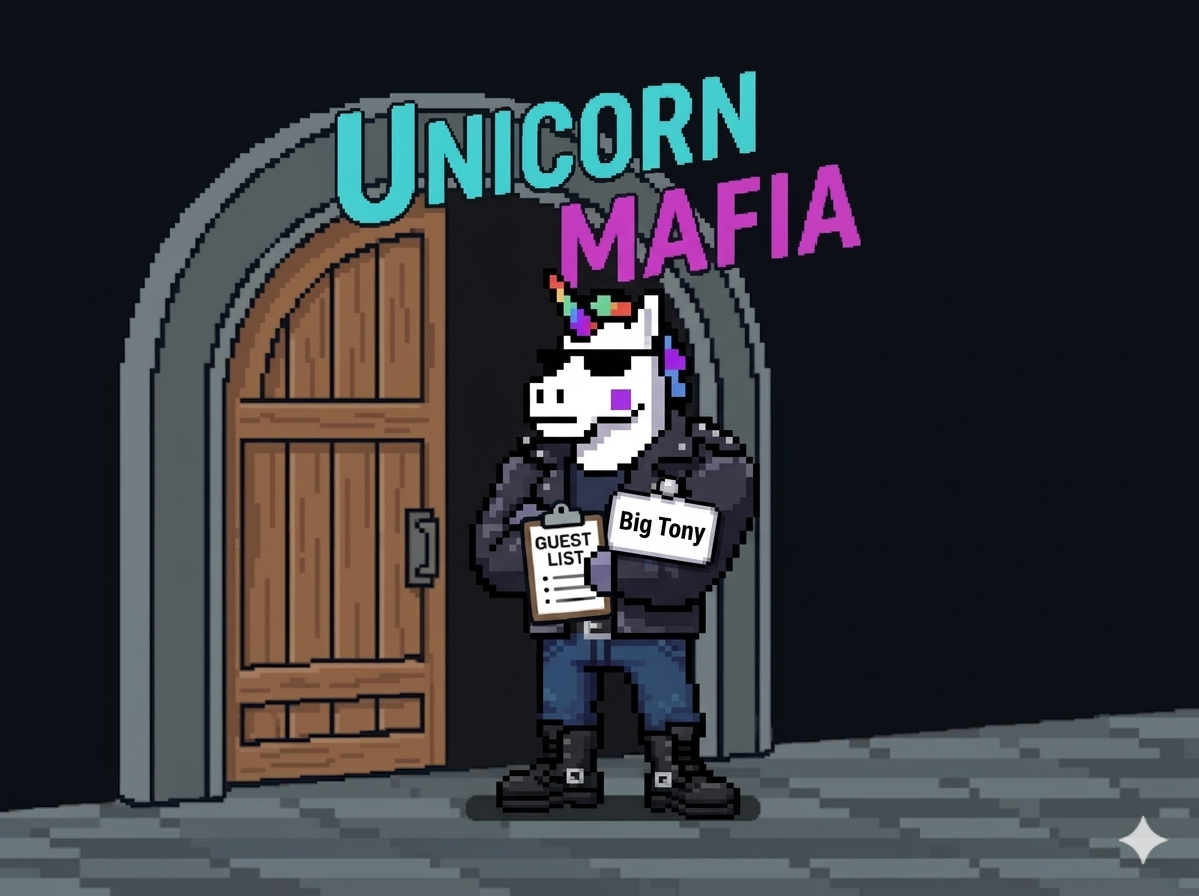
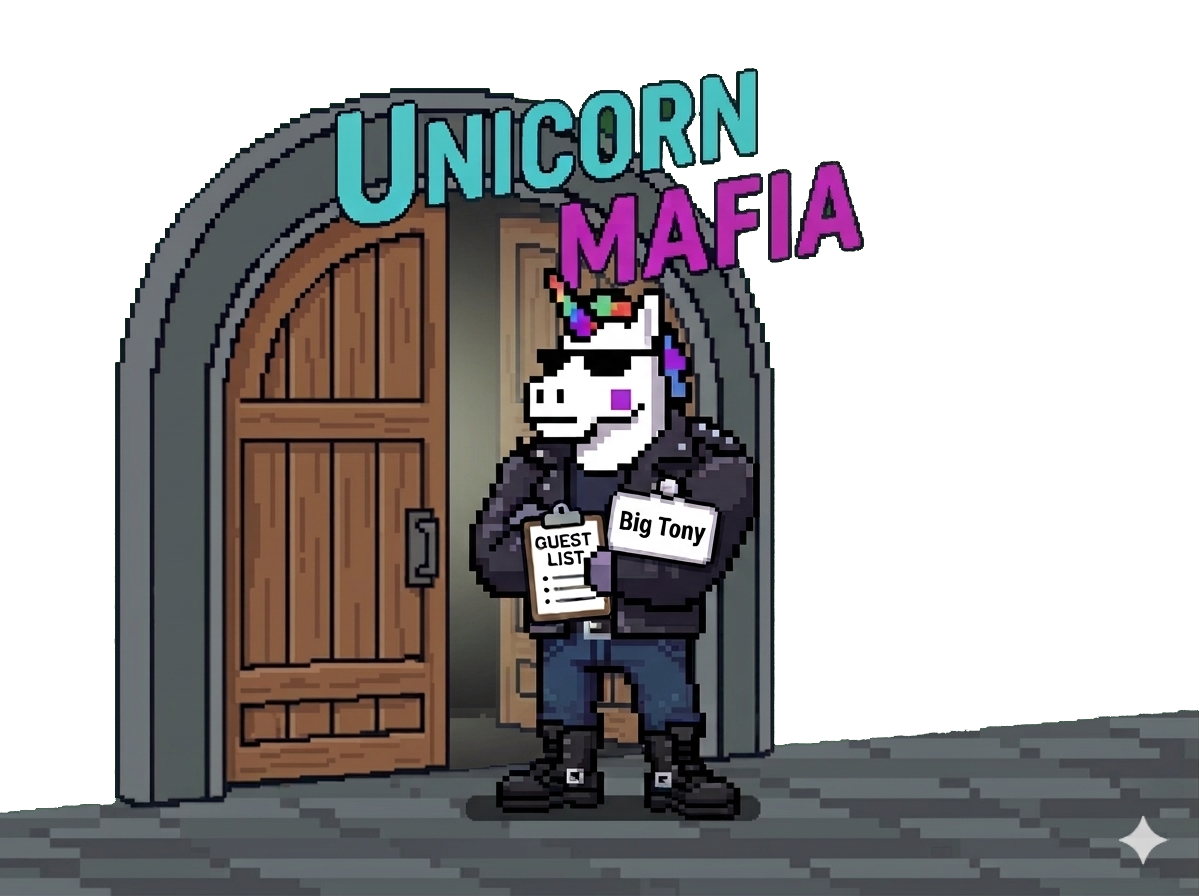
Updated bouncer to bigT and added easter egg

diff --git a/src/app/_components/queue/nightclub-queue.tsx b/src/app/_components/queue/nightclub-queue.tsx
@@ -5,6 +5,7 @@ import {
   WAITLIST_COUNT_FALLBACK,
   mapCountToVisual,
 } from "@/app/_lib/queue-config";
+import Image from "next/image";
 import { BouncerSprite } from "./bouncer-sprite";
 import { UnicornSprite } from "./unicorn-sprite";
 import styles from "./queue.module.css";
@@ -36,10 +37,10 @@ export function NightclubQueue({ compact = false }: NightclubQueueProps) {
   const visibleCount = mapCountToVisual(count);
 
   return (
-    <div className="overflow-hidden" style={{ backgroundColor: "#14120B" }}>
+    <div style={{ backgroundColor: "#14120B", position: "relative" }}>
       {/* Scene strip: queue on left, door+bouncer anchored right */}
       <div
-        className="flex flex-row items-end overflow-hidden"
+        className="flex flex-row items-end"
         style={{ height: containerHeight }}
       >
         {/* Unicorn queue — row-reverse so index 0 is rightmost (closest to door) */}
@@ -58,7 +59,23 @@ export function NightclubQueue({ compact = false }: NightclubQueueProps) {
         </div>
 
         {/* Door + bouncer anchored to right */}
-        <BouncerSprite height={bouncerHeight} />
+        <div style={{ position: "relative", flexShrink: 0 }}>
+          <BouncerSprite height={bouncerHeight} />
+          <a
+            href="https://x.com/amoneill_"
+            target="_blank"
+            rel="noopener noreferrer"
+            style={{ position: "absolute", bottom: 0, right: 0, zIndex: 10 }}
+          >
+            <Image
+              src="/plant-easter-egg.png"
+              alt=""
+              width={18}
+              height={18}
+              style={{ imageRendering: "pixelated", display: "block" }}
+            />
+          </a>
+        </div>
       </div>
 
       {/* Queue info */}
@@ -75,16 +92,6 @@ export function NightclubQueue({ compact = false }: NightclubQueueProps) {
           }}
         >
           {count.toLocaleString()} applicants in line
-        </span>
-        <span
-          className="font-body"
-          style={{
-            fontSize: compact ? 9 : 10,
-            color: "#555",
-            letterSpacing: "0.04em",
-          }}
-        >
-          We review every application
         </span>
       </div>
     </div>

diff --git a/src/app/_lib/queue-config.ts b/src/app/_lib/queue-config.ts
@@ -1,4 +1,4 @@
-export const WAITLIST_COUNT_FALLBACK = 247;
+export const WAITLIST_COUNT_FALLBACK = 200;
 export const QUEUE_CAP = 200;
 
 export function mapCountToVisual(count: number): number {
